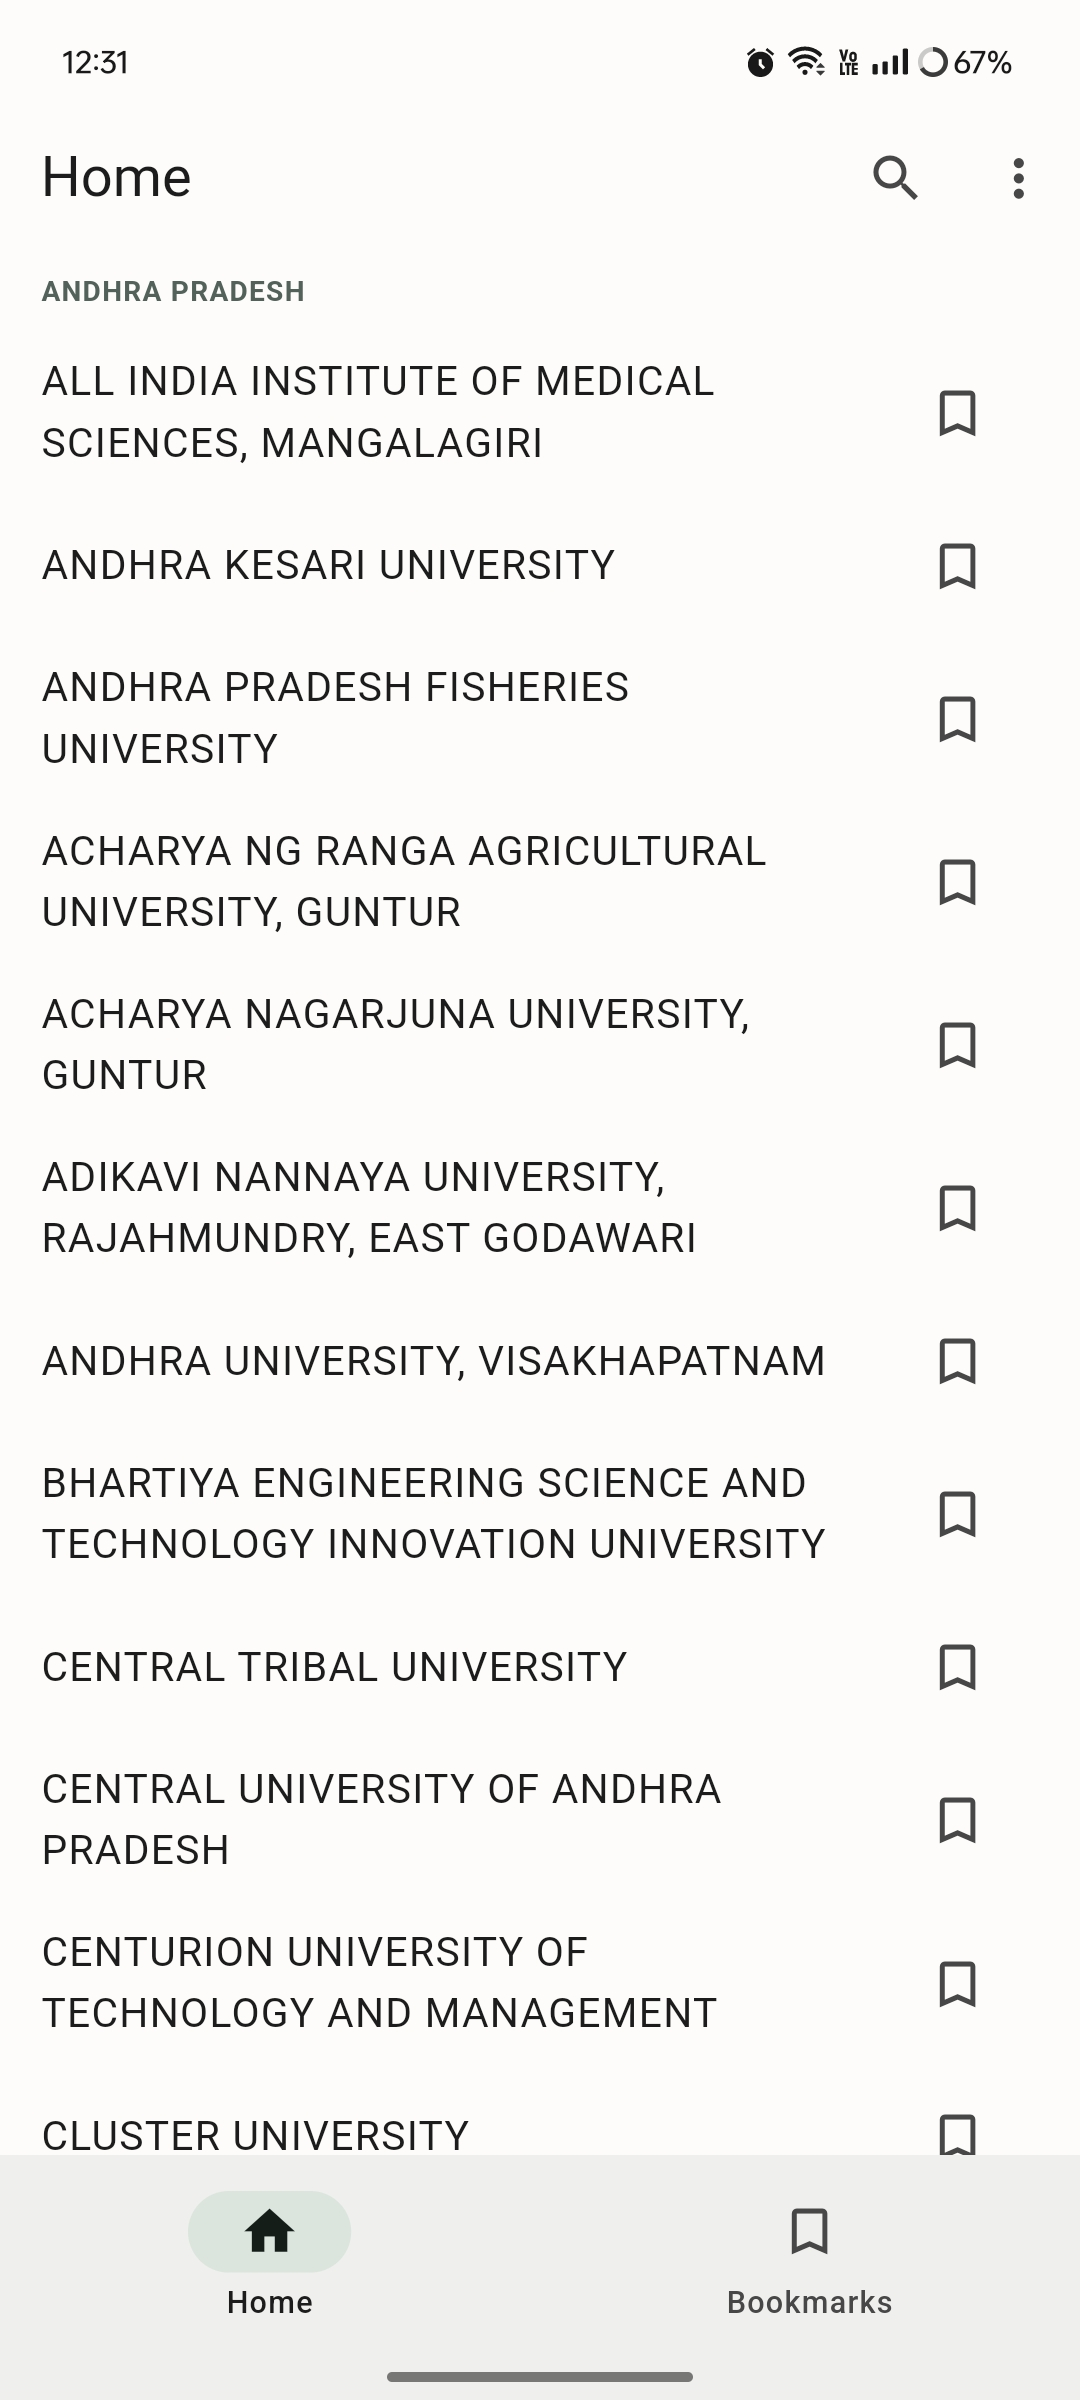
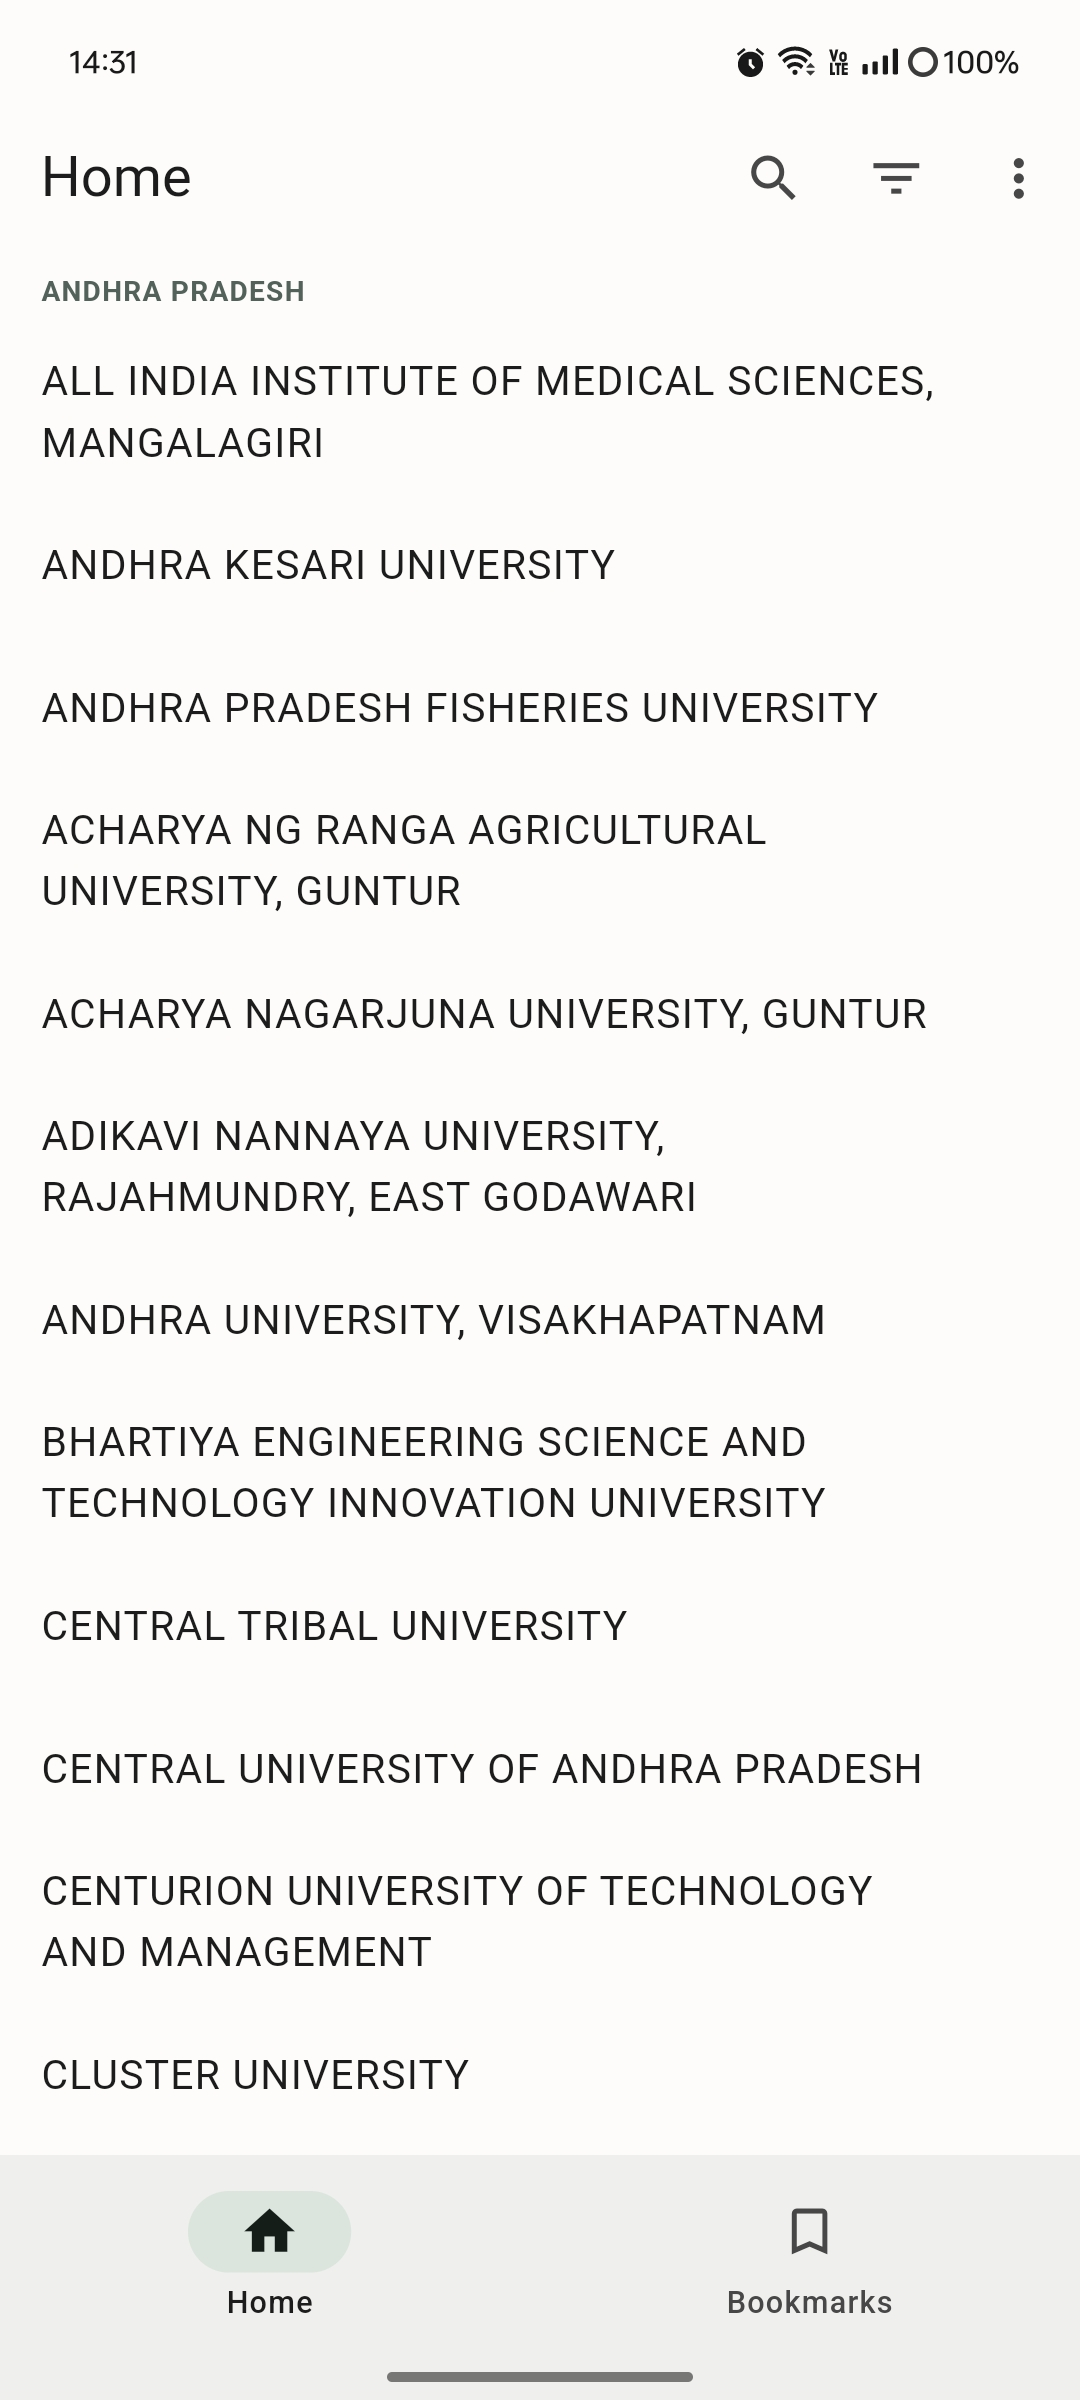
UPDATED README.md

diff --git a/README.md b/README.md
@@ -1,12 +1,19 @@
 # Indian Universities
-Search and Navigate your career options
-List of all the Indian Universities in one place
+
+<div>
+    <img style="width: 100%" src="screenshot/IndianUni.png" alt="Indian Universities" style="float: left; margin-right: 10px;">
+</div>
+
+<center> Search and Navigate your career options
+List of all the Indian Universities in one place </center>
 
 ## Features
 - [x] Search for universities
-- [x] Filter universities by Name
+- [x] Filter universities by Name, State, and Type
 - [x] View university details
 - [x] Add universities to your favorites list
+- [x] Cloud Sync your favorite universities
+- [x] Navigate your University on Google Maps
 - [x] A direct link to the university website
 
 ## Screenshots
@@ -14,6 +21,7 @@ List of all the Indian Universities in one place
     <img style="width: 20%" src="screenshot/1.jpg" alt="Indian Universities" style="float: left; margin-right: 10px;">
     <img style="width: 20%" src="screenshot/2.jpg" alt="Indian Universities" style="float: left; margin-left: 10px;">
     <img style="width: 20%" src="screenshot/3.jpg" alt="Indian Universities" style="float: left; margin-left: 10px;">
+    <img style="width: 20%" src="screenshot/4.jpg" alt="Indian Universities" style="float: left; margin-left: 10px;">
 </div>
 
 ## Source of Data
